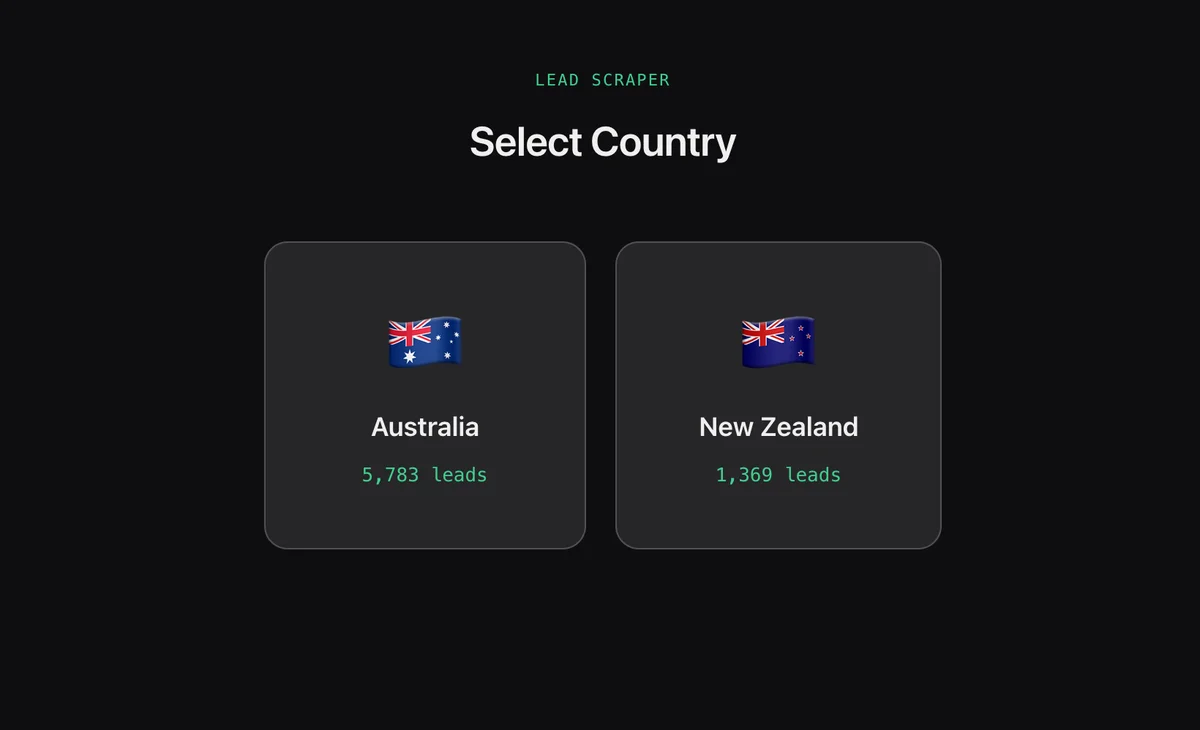
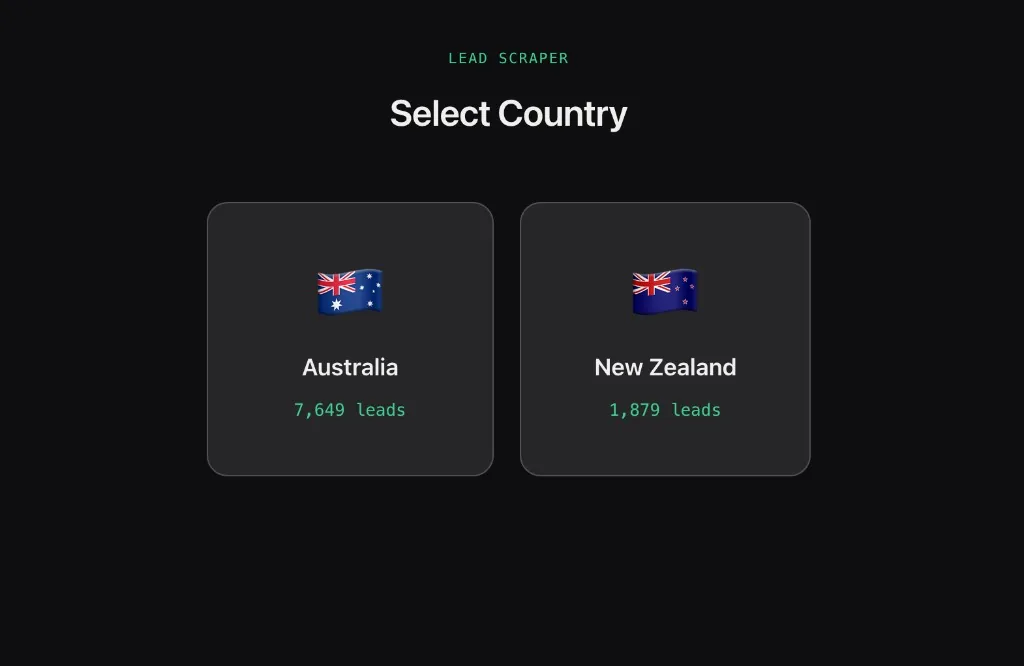
Update Lead Scraper cards to the current AU and NZ lead counts.

diff --git a/index.html b/index.html
@@ -167,7 +167,7 @@
       <div class="about-text">
         <h3>Software developer with insurance expertise and a builder's instinct.</h3>
         <p>I'm a software developer with <b>seven years</b> at Progressive, where my experience in underwriting has shown me how thoughtful technology can improve complex, highly regulated workflows.</p>
-        <p>I build tested web applications, internal tools, and AI-enabled automation using React, TypeScript, Next.js, Node.js, SQL, and external APIs. My work includes an underwriting calculator piloted by Progressive colleagues with <b>100% logged accuracy</b> and a lead intelligence platform that processed over <b>7,000 businesses</b> across <b>101 markets</b> and was estimated to replace more than <b>$25,000</b> in manual research.</p>
+        <p>I build tested web applications, internal tools, and AI-enabled automation using React, TypeScript, Next.js, Node.js, SQL, and external APIs. My work includes an underwriting calculator piloted by Progressive colleagues with <b>100% logged accuracy</b> and a lead intelligence platform that processed <b>7,649 Australian</b> and <b>1,879 New Zealand</b> businesses across <b>101 markets</b> and was estimated to replace more than <b>$25,000</b> in manual research.</p>
         <p>I'm looking for a long-term software engineering opportunity where I can combine insurance knowledge, product judgment, and hands-on development to build reliable software that solves real business problems.</p>
 
         <div class="about-stats" data-github-user="markwaldron7string">
@@ -250,8 +250,8 @@
     <div class="featured-grid">
 
       <a class="fp-card" href="https://buyersagent-leadscraper.vercel.app/" target="_blank" rel="noopener noreferrer">
-        <div class="fp-preview tall-shot">
-          <img src="assets/leadscraper.png" width="1200" height="827" alt="Lead Scraper dashboard screenshot" loading="lazy" class="ls-img" />
+        <div class="fp-preview ls-shot">
+          <img src="assets/leadscraper.png" width="1024" height="666" alt="Lead Scraper country selector with 7,649 Australian and 1,879 New Zealand leads" loading="lazy" class="ls-img" />
         </div>
         <div class="fp-body">
           <h3>Lead Scraper  Client Tool</h3>
@@ -298,7 +298,7 @@
 
       <a class="project" href="https://buyersagent-leadscraper.vercel.app/" target="_blank" rel="noopener noreferrer">
         <div class="p-num">/01</div>
-        <div class="p-shot tall-shot"><img src="assets/leadscraper.png" width="1200" height="827" alt="Lead Scraper screenshot" loading="lazy" class="ls-img" /></div>
+        <div class="p-shot ls-shot"><img src="assets/leadscraper.png" width="1024" height="666" alt="Lead Scraper country selector with 7,649 Australian and 1,879 New Zealand leads" loading="lazy" class="ls-img" /></div>
         <div class="p-info">
           <h3 class="p-title">Lead Scraper</h3>
           <div class="p-meta"><span>2026</span><span>Full-stack tool</span><span>Client workflow</span></div>

diff --git a/styles.css b/styles.css
@@ -230,8 +230,7 @@
   .p-shot{aspect-ratio:16/10;border:1px solid var(--line);border-radius:8px;overflow:hidden;background:var(--bg-2)}
   .p-shot img{width:100%;height:100%;display:block;object-fit:cover;filter:saturate(.88) contrast(1.04);transition:.2s}
   .p-shot.tall-shot,.fp-preview.tall-shot{aspect-ratio:2454/1692}
-  .p-shot img.ls-img,.fp-preview img.ls-img{transform:scale(2) translateY(19%)}
-  .project:hover .p-shot img.ls-img{transform:scale(2.06) translateY(19%)}
+  .p-shot.ls-shot,.fp-preview.ls-shot{aspect-ratio:1024/666}
   .p-info h3{font-size:20px;font-weight:500;margin:0 0 6px;letter-spacing:-.01em;transition:.2s}
   .p-info .p-meta{font-family:'JetBrains Mono',monospace;font-size:12px;color:var(--muted)}
   .p-info .p-meta span+span::before{content:"·";margin:0 8px;color:var(--dim)}
@@ -256,7 +255,6 @@
   .fp-preview{aspect-ratio:16/10;background:var(--bg-2);border-bottom:1px solid var(--line);position:relative;overflow:hidden;display:flex;align-items:center;justify-content:center}
   .fp-preview img{width:100%;height:100%;display:block;object-fit:cover;filter:saturate(.92) contrast(1.03);transition:.25s}
   .fp-card:hover .fp-preview img{transform:scale(1.025);filter:none}
-  .fp-card:hover .fp-preview img.ls-img{transform:scale(2.04) translateY(19%)}
   .fp-body{padding:24px;display:flex;flex-direction:column;flex:1}
   .fp-body h3{margin:0 0 8px;font-size:18px;font-weight:600;letter-spacing:-.01em;transition:.2s}
   .fp-body p{margin:0 0 14px;color:var(--muted);font-size:14px;line-height:1.55;flex:1}

diff --git a/README.md b/README.md
@@ -41,7 +41,7 @@ The site includes two hand-crafted themes controlled by a navigation toggle:
 | Project                         | What it is                                                                                                                                                          | Stack                                               | Live                                                       |
 | -------------------------------- | -------------------------------------------------------------------------------------------------------------------------------------------------------------------- | ---------------------------------------------------- | ------------------------------------------------------------ |
 | **Task Tracker**                | Full-stack task manager with an Angular PWA, ASP.NET Core API, EF Core persistence, offline synchronization, automated testing, and optional AI-assisted planning | Angular · TypeScript · C# · ASP.NET Core · Azure    | [↗](https://task-tracker-fullstack-nu.vercel.app/)        |
-| **Lead Scraper**                | AI-enabled lead intelligence platform that processed over 7,000 businesses across 101 markets using external APIs, contact extraction, and data enrichment        | Next.js · OpenAI · Places API · Resend              | [↗](https://buyersagent-leadscraper.vercel.app/)           |
+| **Lead Scraper**                | AI-enabled lead intelligence platform that processed 7,649 Australian and 1,879 New Zealand businesses across 101 markets using external APIs, contact extraction, and data enrichment | Next.js · OpenAI · Places API · Resend              | [↗](https://buyersagent-leadscraper.vercel.app/)           |
 | **AP Workup Tool**              | Insurance workup calculators for driver experience and premium changes, with state-specific rules and CI-backed automated testing                                 | Angular · TypeScript · Vitest · Playwright          | [↗](https://ap-workup-angular.vercel.app/)                 |
 | **LazyCat Trees**               | E-commerce storefront with configurable products, an interactive Three.js 3D builder, Stripe Checkout, inquiry handling, and automated tests                      | Next.js · TypeScript · Three.js · Stripe            | [↗](https://lazycat-trees.vercel.app/)                     |
 | **Summarist Library**           | Book summary platform with Firebase authentication, Redux state management, audio playback, saved libraries, subscription gating, and automated tests             | Next.js · Redux Toolkit · Firebase · Jest · Cypress | [↗](https://advanced-virtual-internship-pied.vercel.app/) |
